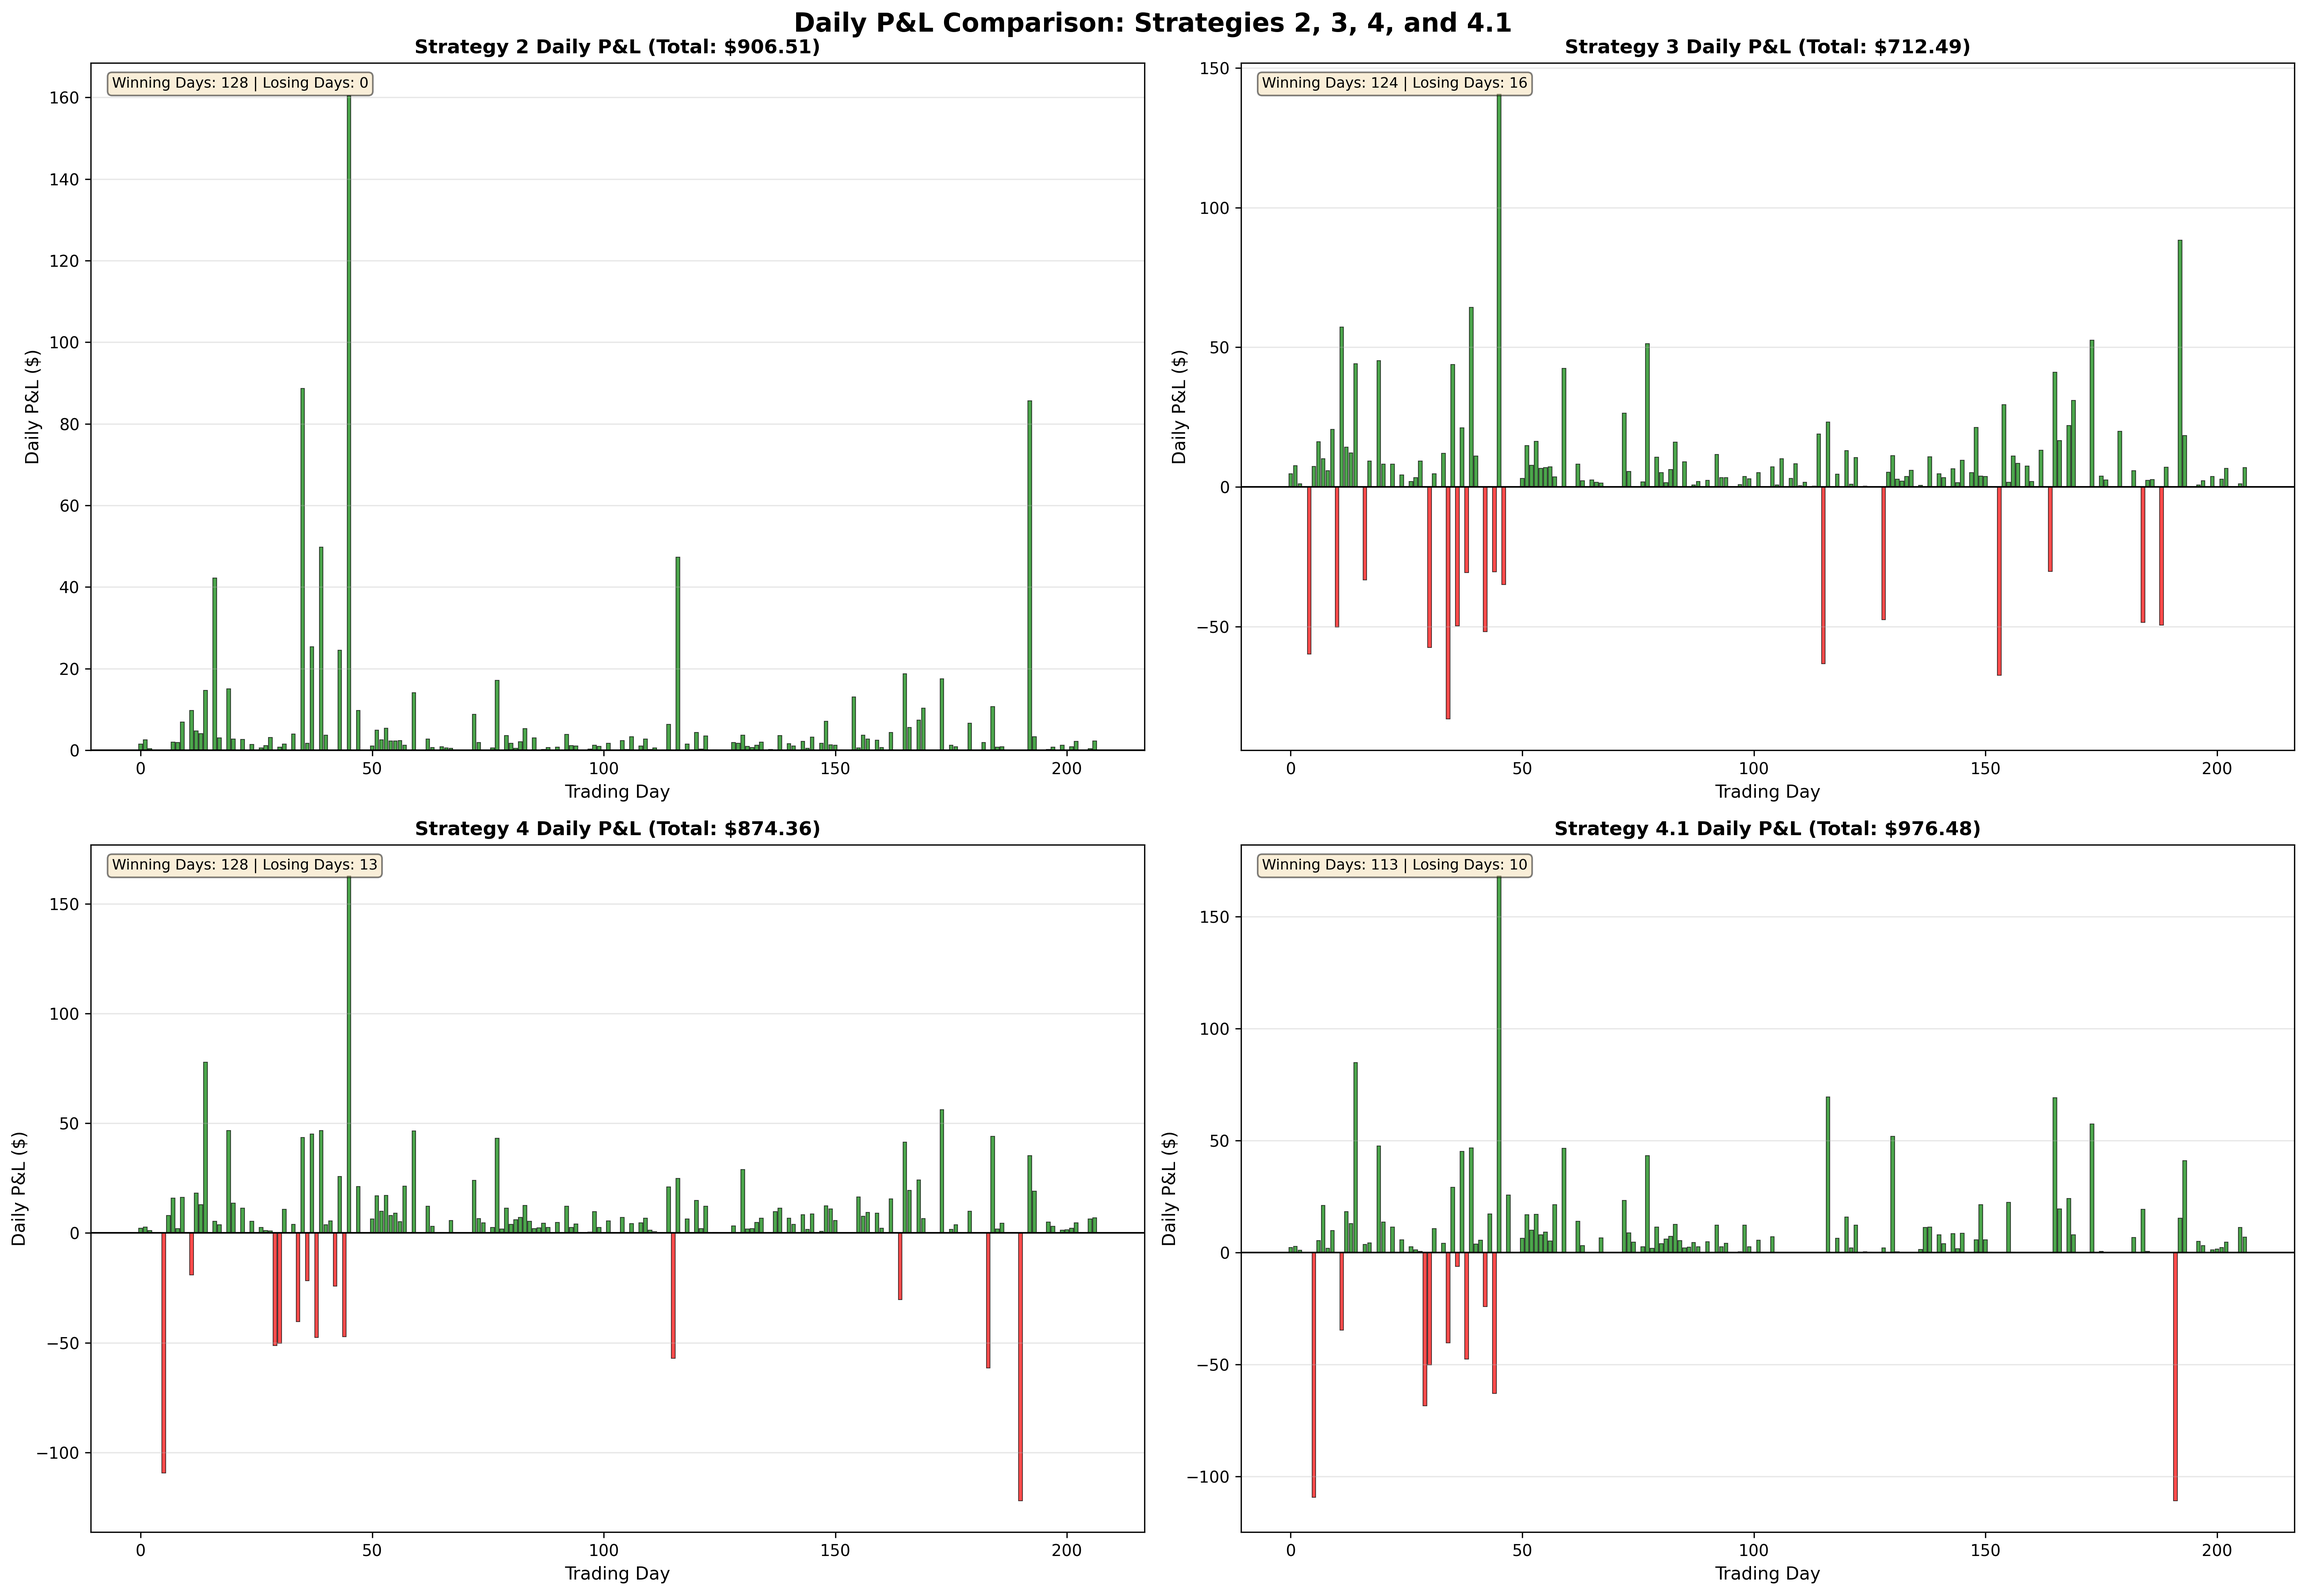
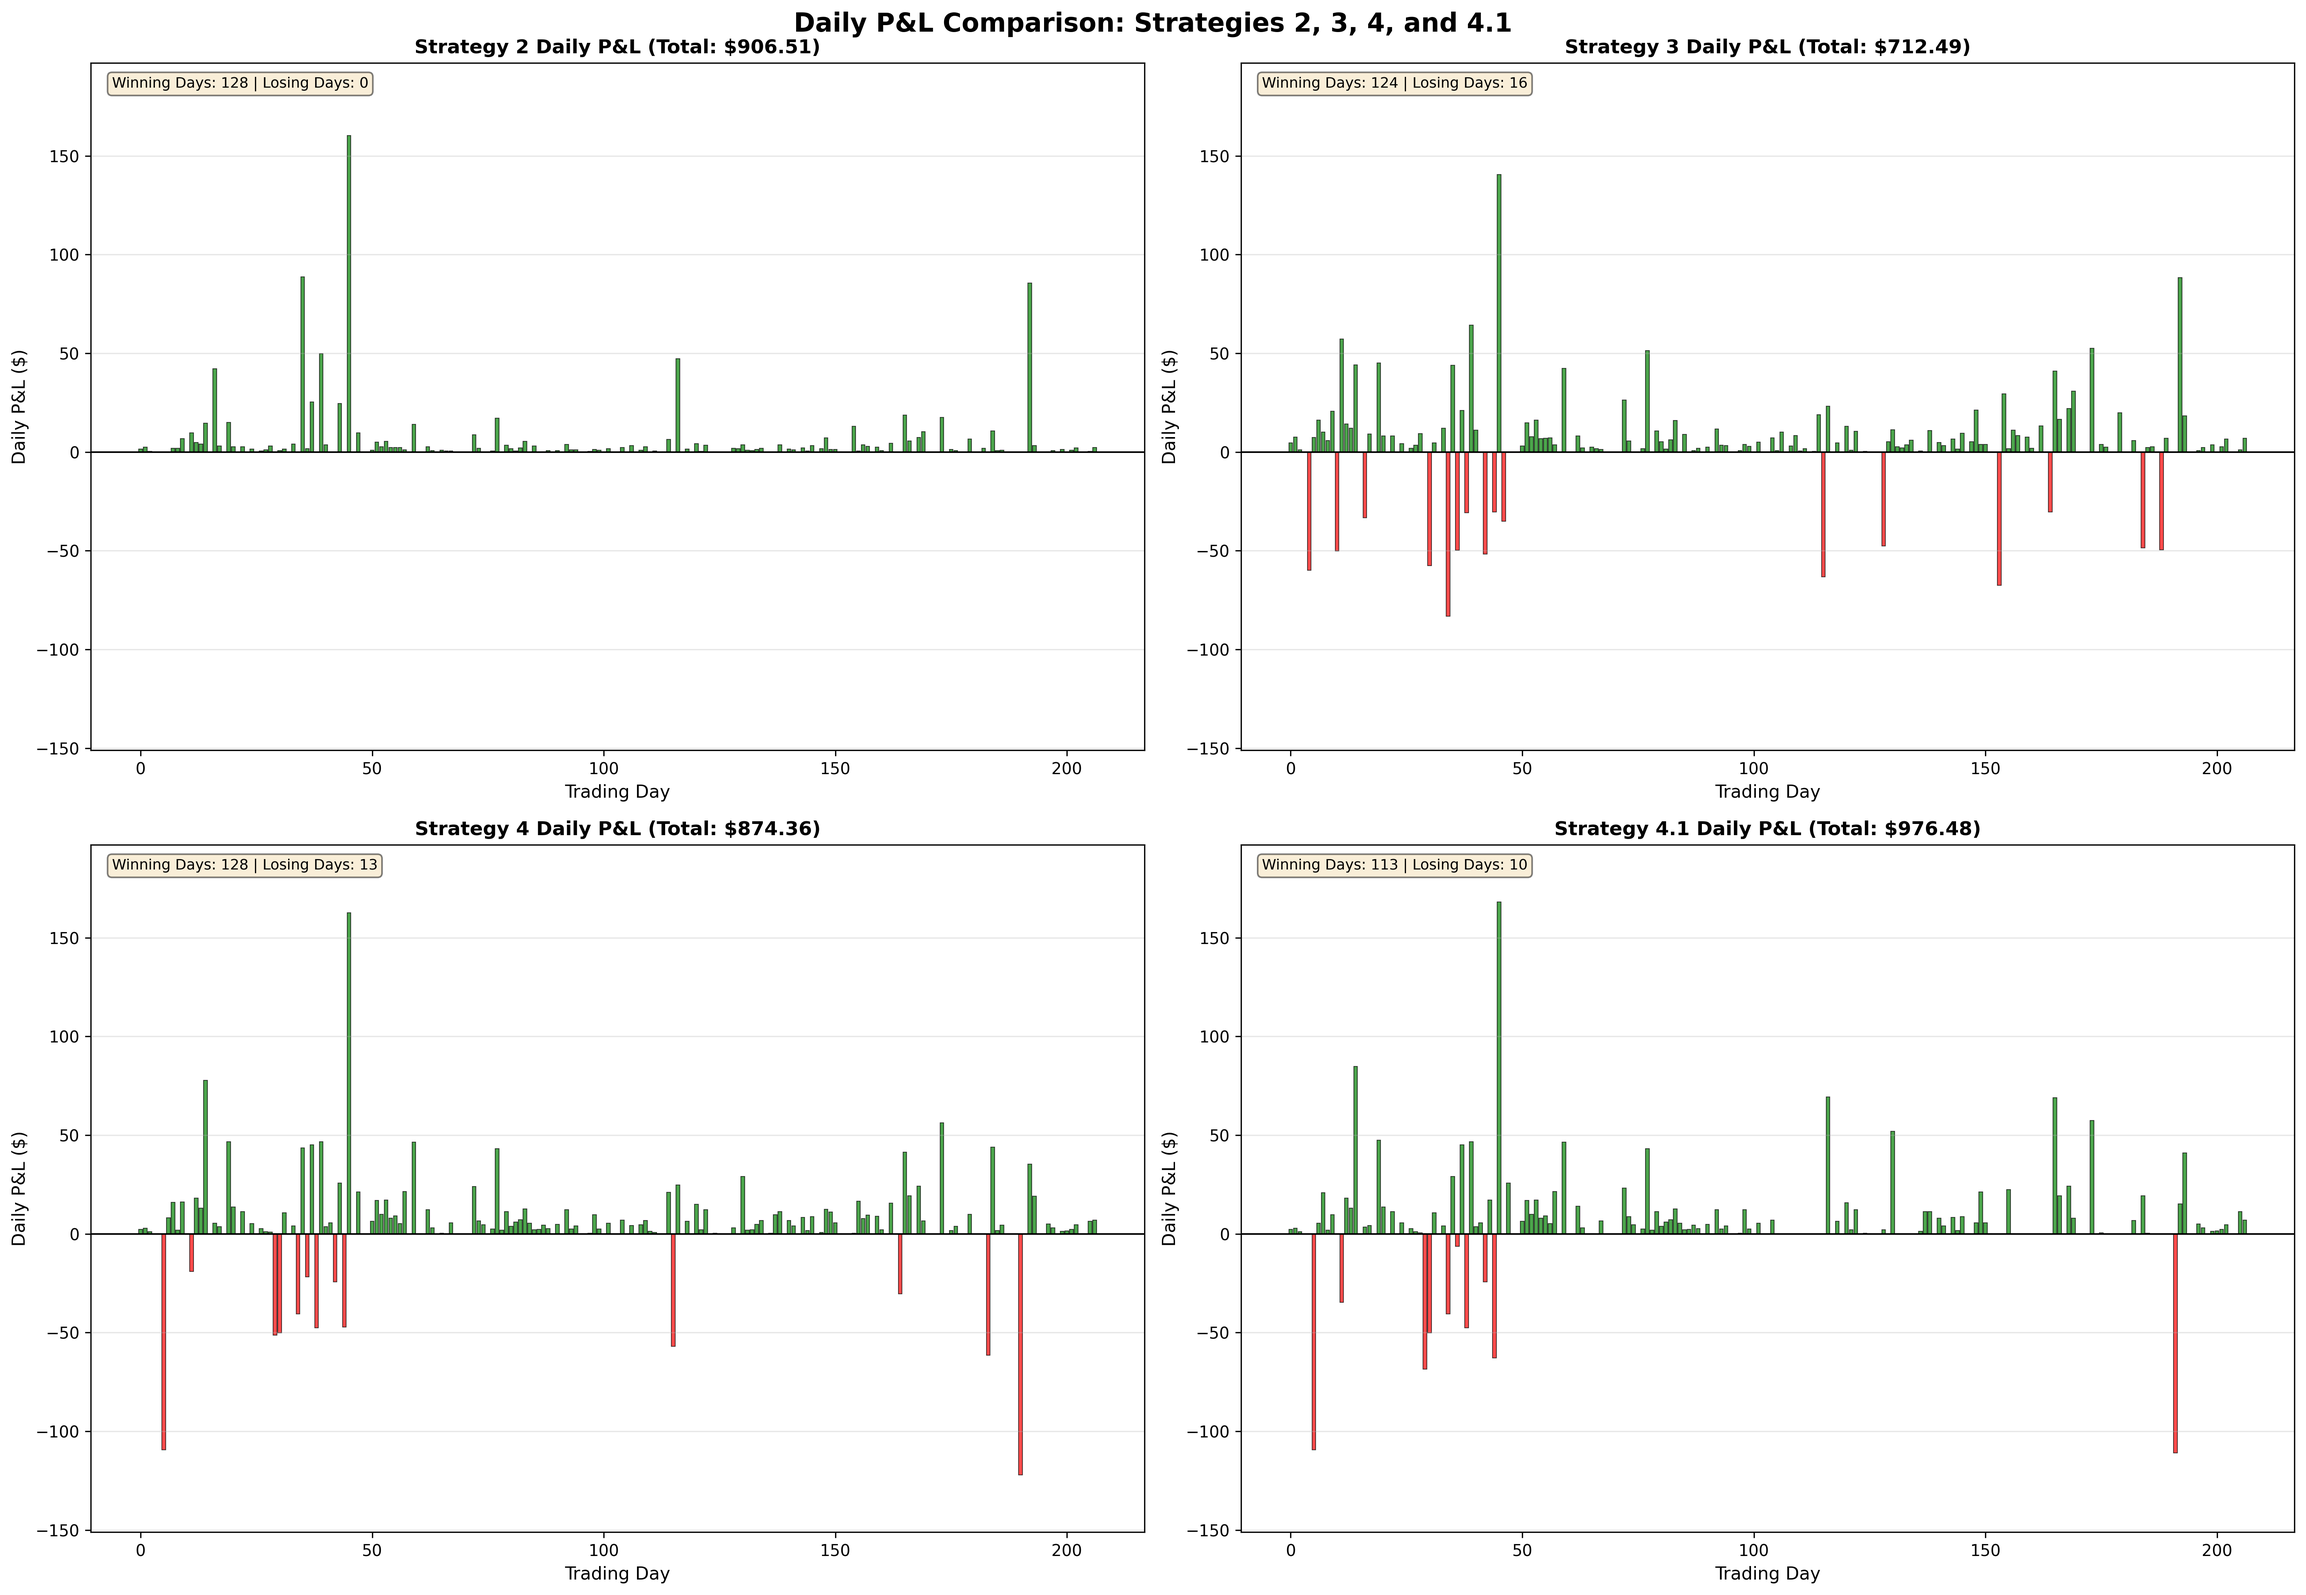
Update comparison charts: overlay equity curves, uniform y-axis for daily P&L

diff --git a/create_strategy_comparison_charts.py b/create_strategy_comparison_charts.py
@@ -107,30 +107,36 @@ for strategy_name, config in STRATEGIES.items():
 if len(strategy_data) == 4:
     print("\nGenerating comparison charts...")
     
-    # 1. Equity Curve Comparison (2x2 grid)
-    fig, axes = plt.subplots(2, 2, figsize=(20, 14))
+    # 1. Equity Curve Comparison (Overlay - all 4 lines in one graph)
+    fig, ax = plt.subplots(figsize=(16, 10))
     fig.suptitle('Equity Curve Comparison: Strategies 2, 3, 4, and 4.1', fontsize=16, fontweight='bold')
     
     strategy_order = ['Strategy 2', 'Strategy 3', 'Strategy 4', 'Strategy 4.1']
-    for idx, strategy_name in enumerate(strategy_order):
+    
+    # Find global min/max for y-axis
+    all_equities = []
+    for strategy_name in strategy_order:
         if strategy_name in strategy_data:
-            row = idx // 2
-            col = idx % 2
-            ax = axes[row, col]
+            all_equities.extend(strategy_data[strategy_name]['equity'])
+    
+    global_min_equity = min(all_equities)
+    global_max_equity = max(all_equities)
+    
+    # Plot all strategies on the same graph
+    for strategy_name in strategy_order:
+        if strategy_name in strategy_data:
             data = strategy_data[strategy_name]
-            
             ax.plot(range(len(trading_days)), data['equity'], 
                     linewidth=2.5, color=data['color'], marker='o', markersize=2, 
-                    label=f"{strategy_name} (Final: ${data['equity'][-1]:,.2f})")
-            ax.axhline(y=INITIAL_CAPITAL, color='gray', linestyle='--', linewidth=1, alpha=0.5, label='Initial Capital')
-            ax.set_xlabel('Trading Day', fontsize=11)
-            ax.set_ylabel('Portfolio Value ($)', fontsize=11)
-            ax.set_title(f'{strategy_name} Equity Curve', fontsize=12, fontweight='bold')
-            ax.grid(True, alpha=0.3)
-            ax.legend(fontsize=9)
-            min_equity = min(data['equity'])
-            max_equity = max(data['equity'])
-            ax.set_ylim([min(INITIAL_CAPITAL * 0.98, min_equity * 0.99), max_equity * 1.01])
+                    label=f"{strategy_name} (Final: ${data['equity'][-1]:,.2f})", alpha=0.9)
+    
+    ax.axhline(y=INITIAL_CAPITAL, color='gray', linestyle='--', linewidth=1.5, alpha=0.6, label='Initial Capital')
+    ax.set_xlabel('Trading Day', fontsize=12)
+    ax.set_ylabel('Portfolio Value ($)', fontsize=12)
+    ax.set_title('Equity Curve Comparison: All Strategies Overlaid', fontsize=14, fontweight='bold')
+    ax.grid(True, alpha=0.3)
+    ax.legend(fontsize=10, loc='best')
+    ax.set_ylim([min(INITIAL_CAPITAL * 0.98, global_min_equity * 0.99), global_max_equity * 1.01])
     
     plt.tight_layout()
     equity_comparison_path = os.path.join(SCRIPT_DIR, 'strategy4', 'equity_curve_comparison.png')
@@ -138,9 +144,22 @@ if len(strategy_data) == 4:
     print(f"[OK] Saved: {equity_comparison_path}")
     plt.close()
     
-    # 2. Daily P&L Comparison (2x2 grid)
+    # 2. Daily P&L Comparison (2x2 grid with same y-axis range)
     fig, axes = plt.subplots(2, 2, figsize=(20, 14))
     fig.suptitle('Daily P&L Comparison: Strategies 2, 3, 4, and 4.1', fontsize=16, fontweight='bold')
+    
+    # Find global min/max for y-axis (same range for all plots)
+    all_pnl_values = []
+    for strategy_name in strategy_order:
+        if strategy_name in strategy_data:
+            all_pnl_values.extend(strategy_data[strategy_name]['daily_pnl'])
+    
+    global_min_pnl = min(all_pnl_values)
+    global_max_pnl = max(all_pnl_values)
+    # Add some padding
+    y_range_padding = (global_max_pnl - global_min_pnl) * 0.1
+    y_min = global_min_pnl - y_range_padding
+    y_max = global_max_pnl + y_range_padding
     
     for idx, strategy_name in enumerate(strategy_order):
         if strategy_name in strategy_data:
@@ -158,6 +177,8 @@ if len(strategy_data) == 4:
             total_pnl = sum(data['daily_pnl'])
             ax.set_title(f'{strategy_name} Daily P&L (Total: ${total_pnl:,.2f})', fontsize=12, fontweight='bold')
             ax.grid(True, alpha=0.3, axis='y')
+            # Set same y-axis range for all plots
+            ax.set_ylim([y_min, y_max])
             
             # Add statistics text
             winning_days = sum(1 for pnl in data['daily_pnl'] if pnl > 0)

diff --git a/strategy4/STRATEGY4.1_REPORT.md b/strategy4/STRATEGY4.1_REPORT.md
@@ -21,19 +21,20 @@ Strategy 4.1 is an enhanced version of Strategy 4 that modifies the exit strateg
 
 #### Equity Curve Comparison
 
-The following chart shows the equity curves for all four strategies side-by-side:
+The following chart shows all four equity curves overlaid in a single graph for direct comparison:
 
 ![Equity Curve Comparison](equity_curve_comparison.png)
 
 **Key Observations:**
-- Strategy 4.1 achieves the highest final portfolio value ($10,976.42)
-- Strategy 2 shows steady growth with no drawdowns
-- Strategy 3 shows more volatility with stop-loss protection
-- Strategy 4 demonstrates progressive exit benefits
+- Strategy 4.1 achieves the highest final portfolio value ($10,976.42) - green line
+- Strategy 2 shows steady growth with no drawdowns - blue line
+- Strategy 3 shows more volatility with stop-loss protection - purple line
+- Strategy 4 demonstrates progressive exit benefits - orange line
+- The overlay format makes it easy to compare performance trajectories at a glance
 
 #### Daily P&L Comparison
 
-The following chart compares daily P&L across all strategies:
+The following chart compares daily P&L across all strategies (all plots use the same y-axis range for fair comparison):
 
 ![Daily P&L Comparison](daily_pnl_comparison.png)
 
@@ -42,6 +43,7 @@ The following chart compares daily P&L across all strategies:
 - Strategy 2 has no losing days (perfect win rate)
 - Strategy 4.1 shows balanced winning/losing day distribution
 - All strategies show positive overall performance
+- The uniform y-axis range allows direct visual comparison of daily P&L magnitudes across strategies
 
 ### Overall Performance
 - **Initial Capital**: $10,000.00
